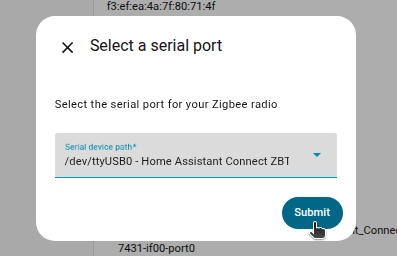
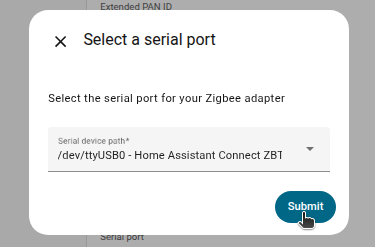
ZBT migration from ZHA to ZHA: update steps to reflect current software (#696)
* ZBT migration from ZHA to ZHA: update steps to reflect current software

* improve step title

* Implement review feedback

* Update src/connect-zbt-1/getting-started/migrate-existing-zha-network.md

Changed region(s): [[0.0587, 0.0, 1.0, 0.9919], [0.1173, 0.3684, 0.7627, 0.4251], [0.1467, 0.1134, 0.5867, 0.2267]]

diff --git a/_includes/connect-zbt-1/migrate-zha-only.md b/_includes/connect-zbt-1/migrate-zha-only.md
@@ -1,12 +1,25 @@
 <!---steps on migrating an existing ZHA network to a Home Assistant Connect ZBT-1 stick. -->
 
 {% steps %}
-{% step "Starting radio migration" %}
+{% step "Starting migration" %}
 {% image "/static/img/connect-zbt-1/connect-zbt-migrate-radio.png" "Screenshot showing the migrate radio button on the Network settings dialog" %}
 {% stepContent %}
 
 1. Under [**Settings** > **Devices & services**](https://my.home-assistant.io/redirect/integrations/), select the ZHA integration, then select the cog wheel.
 2. Under **Network settings** add-on, select **Migrate radio**.
+
+{% endstepContent %}
+{% endstep %}
+
+{% step "Adding an extension cable and the adapter" %}
+{% image "/static/img/connect-zbt-1/connect-zbt-1-raspi-01.jpg" "Home Assistant Connect&nbsp;ZBT-1 connected to a Raspberry Pi via extension cable" %}
+{% stepContent %}
+
+{% include "fragments/notice-interference.md" %}
+
+- Plug the Home Assistant Connect&nbsp;ZBT-1 into the USB extension cable.
+- Plug the extension cable into your Home Assistant instance.
+- If you are using the standalone Home Assistant Container installation method, make sure Connect&nbsp;ZBT-1 is [mapped to the container](https://www.home-assistant.io/installation/linux#exposing-devices).
 
 {% endstepContent %}
 {% endstep %}
@@ -20,61 +33,20 @@
 {% endstepContent %}
 {% endstep %}
 
-{% step "Migrating radio" %}
+{% step "Migrating adapter" %}
 {% image "/static/img/connect-zbt-1/z2m-migrate-zha-04.png" "Screenshot showing the Migrate or reconfigure dialog" %}
 {% stepContent %}
 
-- Select **Migrate to a new radio**.
+- Select **Migrate to a new adapter**.
 
 {% endstepContent %}
 {% endstep %}
 
-{% step "Starting the backup" %}
-{% image "/static/img/connect-zbt-1/z2m-migrate-zha-05.png" "Screenshot showing the Migrate to a new radio dialog" %}
-{% stepContent %}
-
-- To start automatic backup, select **Submit**.
-
-{% endstepContent %}
-{% endstep %}
-
-{% step "Unplugging the old radio" %}
-{% image "/static/img/connect-zbt-1/z2m-migrate-zha-06.png" "Screenshot showing the Unplug your old radio dialog" %}
-{% stepContent %}
-
-- If you no longer need the old Zigbee adapter, you can now remove it.
-- Before selecting **Submit**, connect Connect&nbsp;ZBT-1, as described in the following steps.
-
-{% endstepContent %}
-{% endstep %}
-
-{% step "Adding extension cable" %}
-{% image "/static/img/connect-zbt-1/connect-zbt-1-raspi-01.jpg" "Home Assistant Connect&nbsp;ZBT-1 connected to a Raspberry Pi via extension cable" %}
-{% stepContent %}
-
-{% include "fragments/notice-interference.md" %}
-
-- Plug the Home Assistant Connect&nbsp;ZBT-1 into the USB extension cable.
-- Plug the extension cable into your Home Assistant instance.
-- If you are using the standalone Home Assistant Container installation method, make sure Connect&nbsp;ZBT-1 is [mapped to the container](https://www.home-assistant.io/installation/linux#exposing-devices).
-
-{% endstepContent %}
-{% endstep %}
-
-{% step "Confirming that Home Assistant Connect&nbsp;ZBT-1 is plugged in" %}
-{% image "/static/img/connect-zbt-1/z2m-migrate-zha-06.png" "Screenshot showing the Unplug your radio dialog" %}
-{% stepContent %}
-
-- Now that Home Assistant Connect&nbsp;ZBT-1 is plugged in, select **Submit**.
-
-{% endstepContent %}
-{% endstep %}
-
-{% step "Choosing the port" %}
+{% step "Choosing the port for the new adapter" %}
 {% image "/static/img/connect-zbt-1/connect-zbt-1-migrate-zha-select-port.png" "Screenshot showing the Select a serial port dialog" %}
 {% stepContent %}
 
-- Choose the serial port with **Connect&nbsp;ZBT-1** and select **Submit**.
+- Choose the serial port showing your new adapter and select **Submit**.
 
 {% endstepContent %}
 {% endstep %}
@@ -95,10 +67,11 @@
 {% image "/static/img/connect-zbt-1/z2m-migrate-zha-12.png" "Screenshot showing the Success dialog" %}
 {% stepContent %}
 
-- Select **Finish** to confirm. The migration process is now complete.
+- The migration process is now complete.
 - **Info** You won't be able to control the devices until they rejoin the network.
   - Normally, they rejoin within one hour.
   - You may be able to accelerate that process by power-cycling devices.
+- You can now remove the old Zigbee adapter.
 
 {% endstepContent %}
 {% endstep %}

diff --git a/src/connect-zbt-1/getting-started/migrate-existing-zha-network.md b/src/connect-zbt-1/getting-started/migrate-existing-zha-network.md
@@ -8,6 +8,13 @@ zendesk:
 
 Follow this guide if you already have a running Zigbee Home Assistant (ZHA) network and want to migrate to Home Assistant Connect&nbsp;ZBT-1.
 
+## Prerequisites
+
+- Home Assistant 2025.11 or newer
+- a running Zigbee Home Assistant (ZHA) network with a Zigbee adapter
+- a new Zigbee adapter you want to migrate your network to
+- a free USB port for your new adapter. If you don't have a free port, you can use a USB hub.
+
 ## To migrate an existing ZHA network to Connect&nbsp;ZBT-1
 
 {% include 'connect-zbt-1/migrate-zha-only.md' %}
